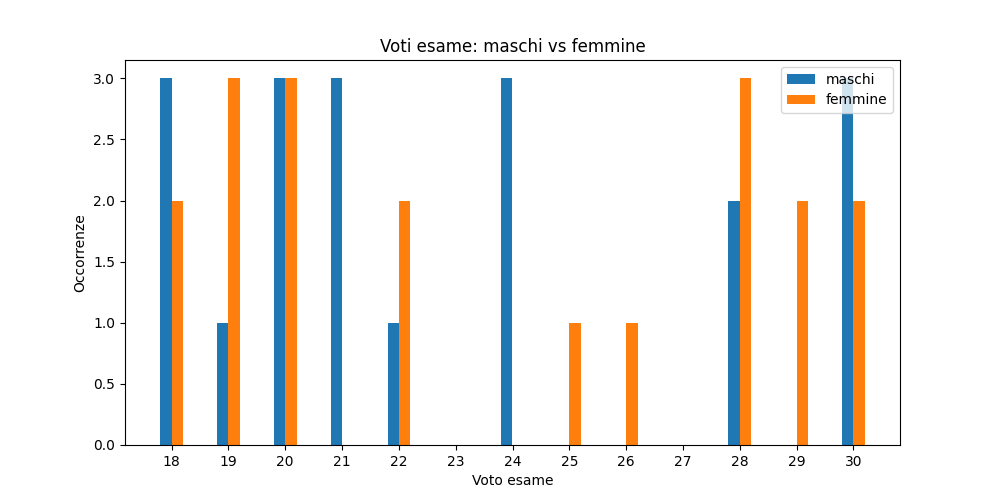
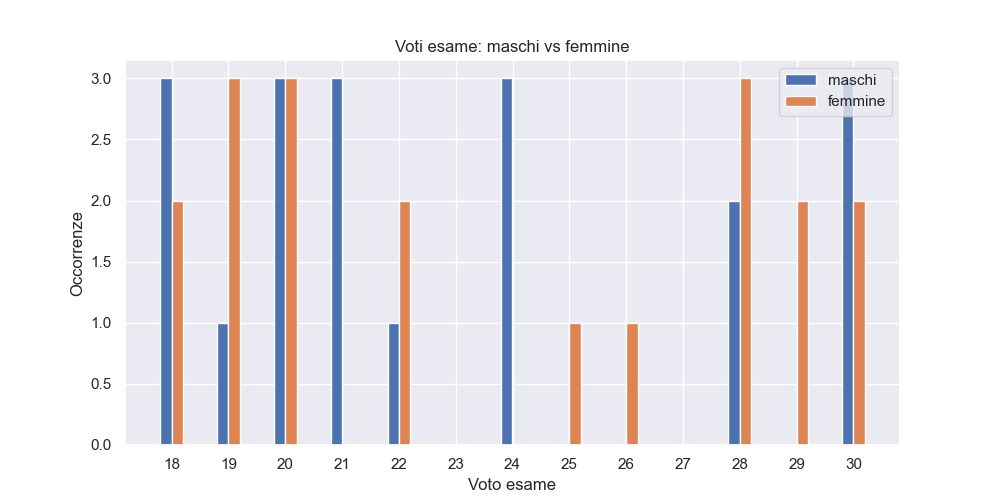
Added seaborn style

diff --git a/laboratory/bar_graph/bar_graph1.py b/laboratory/bar_graph/bar_graph1.py
@@ -1,4 +1,6 @@
 """Compute the occurence of a given list of value. Plot a bar histrogram in a correct (I hope) way."""
+import seaborn as sns
+sns.set_theme(style="darkgrid")
 
 import numpy as np
 import matplotlib.pyplot as plt
@@ -40,7 +42,7 @@ plt.xlabel("Voto esame")
 plt.ylabel("Occorrenze")
 plt.title("Voti esame: maschi vs femmine")
 
-plt.savefig("voti_esame.png")
+plt.savefig("figures/voti_esame.png")
 plt.show()
 
 
